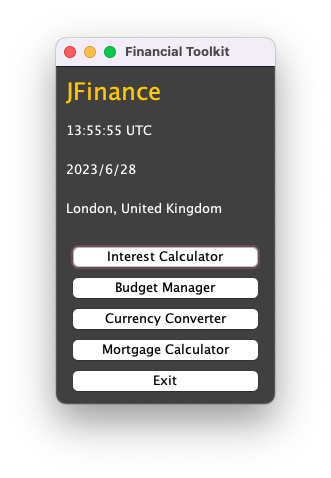
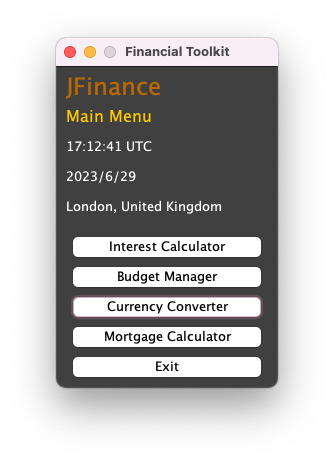
Currency converter fully functioning

Changed region(s): [[0.1511, 0.5152, 0.8459, 0.8485], [0.1511, 0.0909, 0.8459, 0.3939], [0.1813, 0.4242, 0.6647, 0.4848]]

diff --git a/src/CurrencyConverter.java b/src/CurrencyConverter.java
@@ -1,20 +1,31 @@
+import java.awt.Color;
+import java.awt.Dimension;
 import java.awt.FlowLayout;
+import java.awt.Font;
 import java.awt.Frame;
 import java.awt.GridLayout;
 import java.awt.event.ActionEvent;
 import java.awt.event.ActionListener;
-import java.nio.channels.NonReadableChannelException;
+import java.io.BufferedReader;
+import java.io.IOException;
+import java.io.InputStreamReader;
+import java.net.HttpURLConnection;
+import java.net.MalformedURLException;
+import java.net.URL;
+import java.text.MessageFormat;
 
 import javax.swing.JButton;
 import javax.swing.JComboBox;
 import javax.swing.JFrame;
 import javax.swing.JLabel;
 import javax.swing.JPanel;
-import javax.swing.JRadioButtonMenuItem;
 import javax.swing.JTextField;
+
+import org.json.JSONObject;
 
 public class CurrencyConverter extends JFrame implements ActionListener{
 
+	private static final long serialVersionUID = 1L;
 	private double beforeAmt;
 	private double afterAmt;
 	private double rate;
@@ -47,6 +58,29 @@ public class CurrencyConverter extends JFrame implements ActionListener{
 		topPanel.setLayout(topGrid);
 		bottomPanel.setLayout(bottomLayout);
 		
+		//preferences
+		frame.setPreferredSize(new Dimension(360, 300));
+		outPanel.setBackground(Color.darkGray);
+		topPanel.setBackground(Color.darkGray);
+		bottomPanel.setBackground(Color.darkGray);
+		title.setFont(new Font(title.getFont().getName(), Font.PLAIN, 24));
+		title.setForeground(Color.orange);
+		fromLabel.setForeground(Color.white);
+		fromLabel.setFont(new Font(title.getFont().getName(), Font.PLAIN, 16));
+		toLabel.setForeground(Color.white);
+		toLabel.setFont(new Font(title.getFont().getName(), Font.PLAIN, 16));
+		amountLabel.setForeground(Color.white);
+		resultLabel.setForeground(Color.orange);
+		resultLabel.setFont(new Font(title.getFont().getName(), Font.PLAIN, 16));
+		updateLabel.setForeground(Color.orange);
+		updateLabel.setFont(new Font(title.getFont().getName(), Font.PLAIN, 16));
+		amountField.setBackground(Color.gray);
+		amountField.setForeground(Color.white);
+		amountField.setPreferredSize(new Dimension(100, 20));
+		
+		//listeners
+		convertButton.addActionListener(convertListener);
+		
 		//adding to frame
 		outPanel.add(title);
 		topPanel.add(fromLabel);
@@ -67,8 +101,68 @@ public class CurrencyConverter extends JFrame implements ActionListener{
 		frame.setTitle("JFinance");
 		frame.pack();
 		frame.setVisible(true);
-		frame.setResizable(true);
+		frame.setResizable(false);
 	}
+	
+	ActionListener convertListener = new ActionListener() {
+
+		@Override
+		public void actionPerformed(ActionEvent e) {
+			try {
+				String baseCurrency = (String)fromBox.getSelectedItem();
+				String targetCurrency = (String)toBox.getSelectedItem();
+				double baseAmount = Double.parseDouble(amountField.getText());
+				double targetAmount;
+			
+				
+				URL url = new URL("https://v6.exchangerate-api.com/v6/e0cbabd4d96860dcf76e979b/latest/" + baseCurrency);
+				HttpURLConnection connection = (HttpURLConnection) url.openConnection();
+				
+				connection.setRequestMethod("GET");
+				int responseCode = connection.getResponseCode();
+				
+	            if (responseCode == HttpURLConnection.HTTP_OK) {
+	                BufferedReader reader = new BufferedReader(new InputStreamReader(connection.getInputStream()));
+	                StringBuilder response = new StringBuilder();
+	                String line;
+
+	                while ((line = reader.readLine()) != null) {
+	                	response.append(line);
+	                }
+	                reader.close();
+
+	                System.out.println(response);
+	                JSONObject json = new JSONObject(response.toString());
+	                String check = (String)json.get("time_last_update_utc");
+	                check = check.substring(0, check.length() - 6);
+	                JSONObject rates = json.getJSONObject("conversion_rates");
+	                double exchangeRate = rates.getDouble(targetCurrency);
+	                System.out.println("Exchange rate: 1 " + baseCurrency + " = " + exchangeRate + " " + targetCurrency);
+	                
+	                targetAmount = baseAmount * exchangeRate;
+	                
+	                resultLabel.setText(MessageFormat.format("{0} {1} = {2} {3}", baseAmount, baseCurrency, targetAmount, targetCurrency));
+	                updateLabel.setText("Last checked: " + check);
+
+	            } else {
+	                System.out.println("HTTP request failed with response code: " + responseCode);
+	            }
+
+	            connection.disconnect();
+				
+			} catch (MalformedURLException e1) {
+				System.out.println("Invalid URL");
+				e1.printStackTrace();
+			} catch (IOException e1) {
+				System.out.println("Cannot establish connection");
+				e1.printStackTrace();
+			} catch (NumberFormatException e1) {
+				amountField.setText("");
+			}
+			
+			
+		}
+	};
 
 	@Override
 	public void actionPerformed(ActionEvent e) {

diff --git a/src/Menu.java b/src/Menu.java
@@ -1,4 +1,5 @@
 import java.awt.Color;
+import java.awt.Dimension;
 import java.awt.Font;
 import java.awt.GridLayout;
 import java.awt.event.ActionEvent;
@@ -18,6 +19,8 @@ import java.io.InputStreamReader;
 import java.net.HttpURLConnection;
 import java.net.URL;
 import org.json.JSONObject;
+import org.w3c.dom.css.CSSPrimitiveValue;
+import org.w3c.dom.css.RGBColor;
 
 
 public class Menu extends JFrame implements ActionListener{
@@ -28,6 +31,7 @@ public class Menu extends JFrame implements ActionListener{
 	private static JPanel topPanel = new JPanel();
 	private static JPanel panel = new JPanel();
 	private static JLabel title = new JLabel("JFinance");
+	private static JLabel menuLabel = new JLabel("Main Menu");
 	private static JLabel time = new JLabel("00:00:00 UTC");
 	private static JLabel location = new JLabel("Location Not Found");
 	private static JLabel date = new JLabel("0000/00/00");
@@ -41,32 +45,40 @@ public class Menu extends JFrame implements ActionListener{
 	
 	public Menu() {
 		
+		//layouts
 		GridLayout outerGrid = new GridLayout(2, 1);
 		GridLayout grid = new GridLayout(5, 1);
-		GridLayout topGrid = new GridLayout(4, 1);
-		
+		GridLayout topGrid = new GridLayout(5, 1);		
 		frame.setLayout(outerGrid);
-	
-		topPanel.setBackground(Color.darkGray);
-		panel.setBackground(Color.darkGray);
-		title.setForeground(Color.orange);
-		title.setFont(new Font(title.getFont().getName(), Font.PLAIN, 24));
-		time.setForeground(Color.white);
-		date.setForeground(Color.white);
-		location.setForeground(Color.white);
-		
 		panel.setBorder(BorderFactory.createEmptyBorder(5, 10, 5, 10));
 		panel.setLayout(grid);
 		topPanel.setLayout(topGrid);
 		topPanel.setBorder(BorderFactory.createEmptyBorder(5, 10, 5, 10));
+	
+		//preferences
+		Color darkOrange = new Color(186, 104, 4);
+		frame.setBackground(Color.darkGray);
+		topPanel.setBackground(Color.darkGray);
+		panel.setBackground(Color.darkGray);
+		title.setForeground(darkOrange);
+		title.setFont(new Font(title.getFont().getName(), Font.PLAIN, 24));
+		menuLabel.setForeground(Color.orange);
+		menuLabel.setFont(new Font(title.getFont().getName(), Font.PLAIN, 16));
+		time.setForeground(Color.white);
+		date.setForeground(Color.white);
+		location.setForeground(Color.white);
+		frame.setPreferredSize(new Dimension(222, 350));
 		
+		//listeners
 		exitButton.addActionListener(exitListener);
 		interestButton.addActionListener(interestListener);
 		budgetButton.addActionListener(budgetListener);
 		currencyButton.addActionListener(currencyListener);
 		mortgageButton.addActionListener(mortgageListener);
 			
+		//adding to frame
 		topPanel.add(title);
+		topPanel.add(menuLabel);
 		topPanel.add(time);
 		topPanel.add(date);
 		topPanel.add(location);
@@ -76,13 +88,14 @@ public class Menu extends JFrame implements ActionListener{
 		panel.add(mortgageButton);
 		panel.add(exitButton);
 		
+		//running frame
 		frame.add(topPanel);
 		frame.add(panel);
 		frame.setDefaultCloseOperation(JFrame.EXIT_ON_CLOSE);
 		frame.setTitle("Financial Toolkit");
 		frame.pack();
 		frame.setVisible(true);
-		frame.setResizable(true);
+		frame.setResizable(false);
 	}
 	
 	ActionListener exitListener = new ActionListener() {

diff --git a/src/BudgetManager.java b/src/BudgetManager.java
@@ -108,7 +108,7 @@ public class BudgetManager extends JFrame implements ActionListener{
 		frame.setTitle("JFinance");
 		frame.pack();
 		frame.setVisible(true);
-		frame.setResizable(true);
+		frame.setResizable(false);
 	}
 	
 	FocusListener focusListener = new FocusListener() {

diff --git a/src/InterestCalc.java b/src/InterestCalc.java
@@ -130,7 +130,7 @@ public class InterestCalc extends JFrame implements ActionListener {
 		frame.setTitle("JFinance");
 		frame.pack();
 		frame.setVisible(true);
-		frame.setResizable(true);
+		frame.setResizable(false);
 		
     }
     
